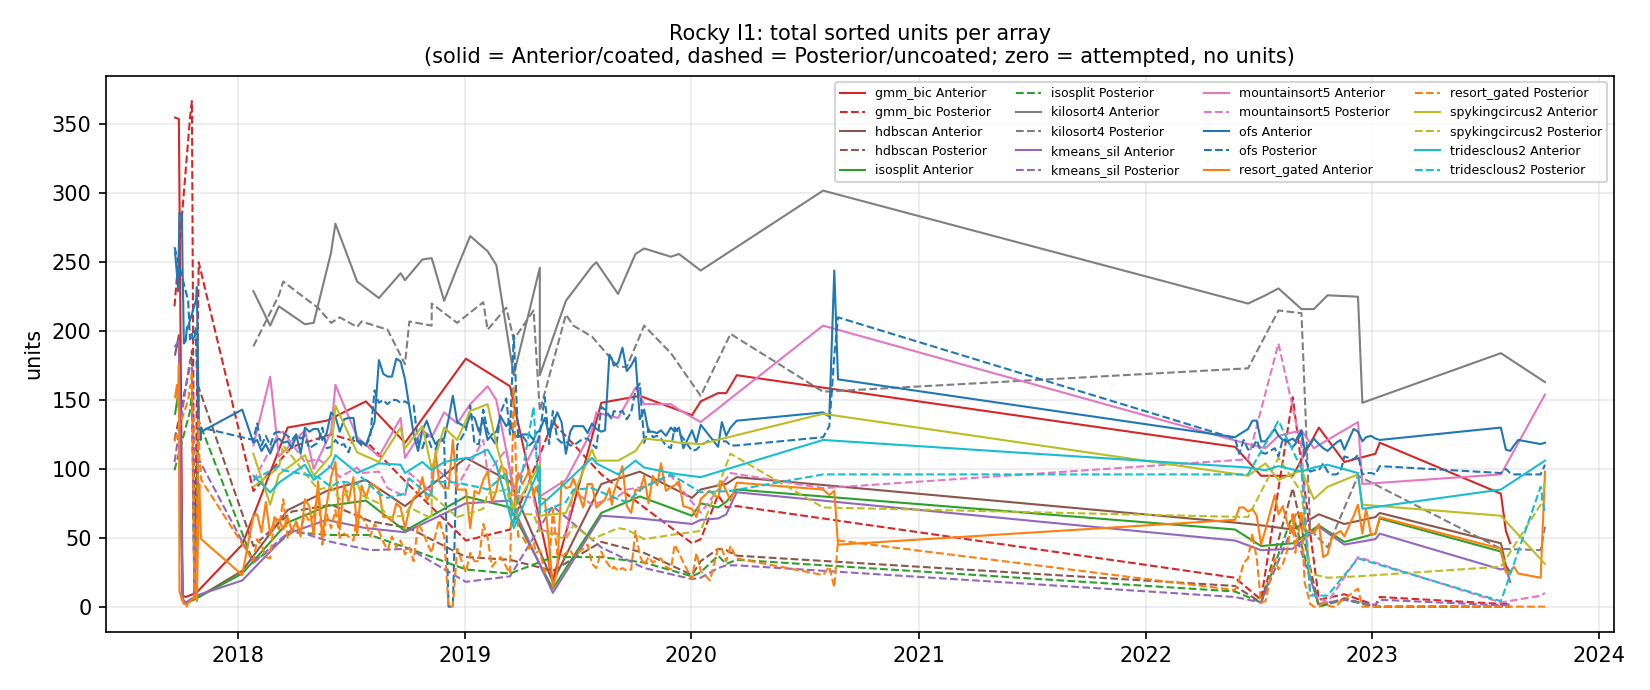
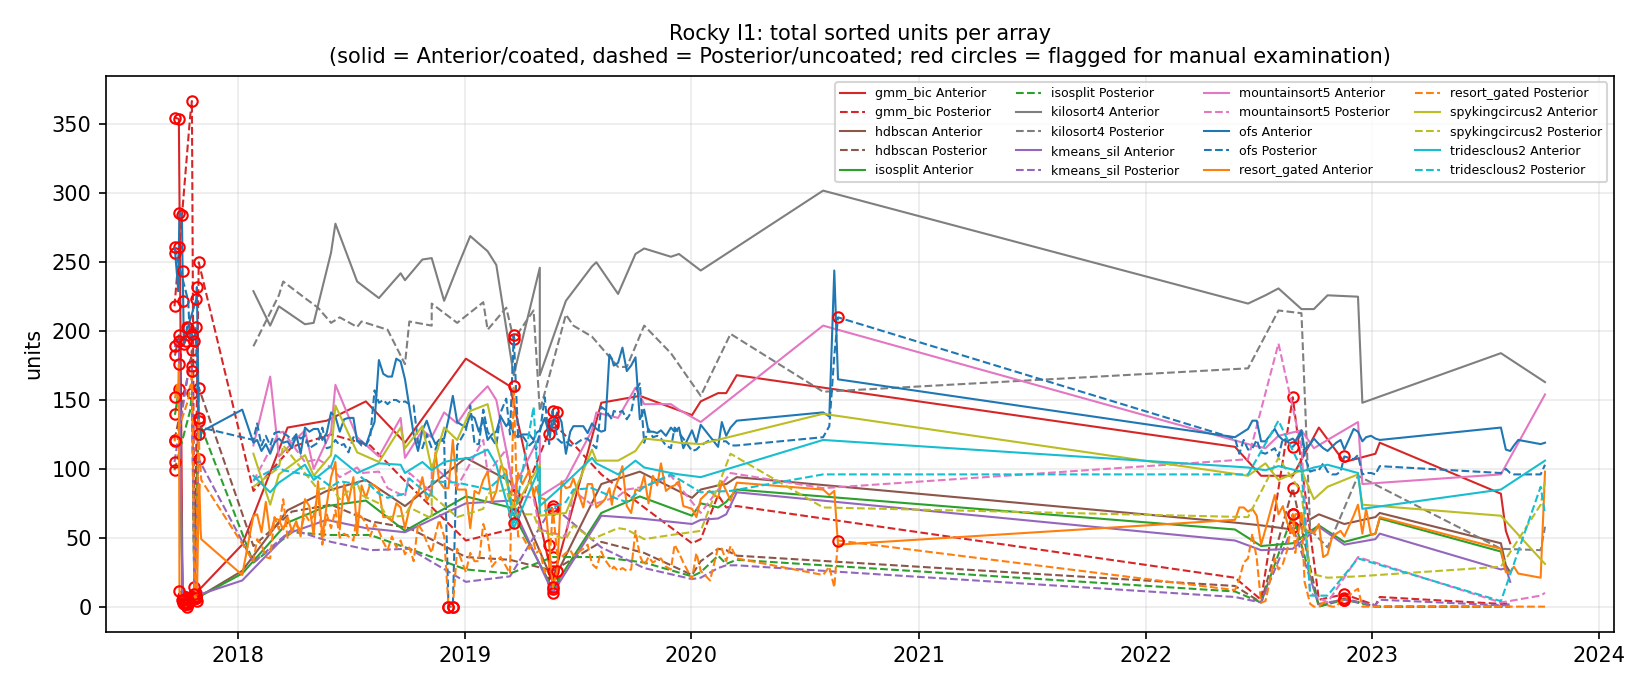
Outlier flagging + monthly binning for the two-array metrics (owner spec)
27 sessions flagged for manual examination (robust-z sweep over every
metric x method x array series at z>5, the S09 noise screen, and the
owner-named 2019-05-23 railed day): the 2017 protocol block, the
Dec-2018 Posterior Analog pair, the mid-2019 Analog block, 2020-08-24,
and two mid/late-2022 Posterior sessions. Flags + reasons + month_post
(30.44 d from surgery 2017-08-30) ride in the parquet; figures come in
three sets (flag-ringed, clean, monthly-binned medians). MATLAB twin
gains excludeOutliers toggle and M.outliers.

diff --git a/notebooks/scratch_two_array_metrics.py b/notebooks/scratch_two_array_metrics.py
@@ -68,6 +68,60 @@ OUT = DER / "rocky" / "two_array_metrics.parquet"
 FIG = REPO / "figures" / "rocky"
 N_CH = 96
 MODERN = ["mountainsort5", "kilosort4", "spykingcircus2", "tridesclous2"]
+SURGERY = pd.Timestamp("2017-08-30")   # I1 implant (configs/subjects/rocky)
+DAYS_PER_MONTH = 30.44                 # month-post-implant bin width
+
+# Sessions flagged for MANUAL EXAMINATION / exclusion (owner request
+# 2026-09-16). Curated from two independent screens - a rolling-median
+# robust-z sweep over every (metric, method, array) series (flag at
+# z > 5 on >= 3 metric-method combinations) and the S09 session-noise
+# screen (measurement_floor.md) - plus the owner's named example. Each
+# entry: stem -> short reason. Toggled per figure set below; the flag
+# also ships in the output table as is_outlier/outlier_reason.
+OUTLIERS = {
+    # -- 2017 protocol block: 4916 s sessions, no headstage, ~2.3x noise
+    #    (the era confound of longitudinal_metrics.md); every stem here
+    #    was flagged by the z-sweep, the noise screen, or both
+    "Rocky_Posterior_09-21-2017": "2017 protocol; z-flagged x3",
+    "Rocky_Anterior_09-22-2017": "2017 protocol; z-flagged x12",
+    "Rocky_Anterior_09-28-2017": "2017 protocol; z-flagged x11",
+    "Rocky_Anterior_09-29-2017": "2017 protocol; noise screen",
+    "Rocky_Anterior_10-03-2017": "2017 protocol; noise screen",
+    "Rocky_Anterior_10-04-2017": "2017 protocol; noise screen; z x4",
+    "Rocky_Anterior_10-05-2017": "2017 protocol; noise screen",
+    "Rocky_Anterior_10-06-2017": "2017 protocol; noise screen",
+    "Rocky_Anterior_10-09-2017": "2017 protocol; noise screen; z x5",
+    "Rocky_Anterior_10-11-2017": "2017 protocol; noise screen",
+    "Rocky_Anterior_10-12-2017": "2017 protocol; noise screen",
+    "Rocky_Posterior_10-19-2017": "2017 protocol; z-flagged x3",
+    "Rocky_Posterior_10-23-2017": "2017 protocol; noise screen; z x13",
+    "Rocky_Posterior_10-25-2017": "2017 protocol; noise screen; z x3",
+    "Rocky_Anterior_10-26-2017": "2017 protocol; noise screen; z x5",
+    "Rocky_Anterior_10-27-2017": "2017 protocol; noise screen",
+    "Rocky_Posterior_10-30-2017_Baseline": "2017 protocol; z-flagged x5",
+    # -- Dec-2018 Posterior Analog pair: degenerate amplitude days (the
+    #    2018-12-06 era also holds the 1-channel 3.9 mV exact-P2P peak)
+    "Rocky_Posterior_12-06-2018_Baseline_AnalogHeadstage":
+        "amplitude blowup; z x6",
+    "Rocky_Posterior_12-13-2018_Baseline_AnalogHeadstage":
+        "amplitude blowup; z x6",
+    # -- mid-2019 Analog block: railed/elevated sessions (owner example)
+    "Rocky_Posterior_03-21-2019_Baseline_AnalogHeadstage":
+        "railed artifacts; noise screen; z max 76",
+    "Rocky_Anterior_05-17-2019_Baseline_AnalogHeadstage": "noise screen",
+    "Rocky_Anterior_05-23-2019_Baseline_AnalogHeadstage":
+        "railed day (owner example); noise screen; z x8",
+    "Rocky_Posterior_05-23-2019_Baseline_AnalogHeadstage":
+        "railed day (owner example); noise screen; z max 362",
+    "Rocky_Anterior_05-30-2019_Baseline_AnalogHeadstage":
+        "railed; noise screen; z max 61",
+    # -- isolated later anomalies
+    "Rocky_Posterior_08-24-2020_Baseline_DigitalHeadstage": "noise screen",
+    "Rocky_Posterior_2022-08-26_Baseline_DigitalHeadstage":
+        "mid-2022 dropout; z x5",
+    "Rocky_Posterior_2022-11-17_Baseline_DigitalHeadstage":
+        "amplitude spike; z x3",
+}
 
 
 def session_metrics(units: pd.DataFrame, universe: pd.DataFrame,
@@ -140,41 +194,77 @@ def main() -> int:
                          value=float(r.n_units)))
 
     t = pd.DataFrame(rows).sort_values(["metric", "method", "array", "date"])
+    # exclusion flag + month post implant travel with every row
+    t["is_outlier"] = t.stem.isin(OUTLIERS)
+    t["outlier_reason"] = t.stem.map(OUTLIERS).fillna("")
+    t["month_post"] = ((t.date - SURGERY).dt.days / DAYS_PER_MONTH
+                       ).astype(int)
     t.to_parquet(OUT, index=False)
     print(t.groupby(["metric", "method"], observed=True)
            .agg(n=("stem", "size"), med=("value", "median"))
            .round(1).to_string())
+    print(f"\noutlier sessions excluded from the clean/monthly sets: "
+          f"{t[t.is_outlier].stem.nunique()}")
 
-    # === figures: one metric each, color = method, style = array ========
+    # === figures ==========================================================
     color = {m: c for m, c in zip(
         ["ofs", "resort_gated", "isosplit", "gmm_bic", "kmeans_sil",
          "hdbscan"] + MODERN,
         plt.cm.tab10.colors + plt.cm.tab10.colors[:2], strict=False)}
     style = {"Anterior": "-", "Posterior": "--"}
     titles = {"n_units": ("total sorted units per array", "units",
-                          "17_n_units_by_method.png"),
+                          "17_n_units_by_method"),
               "mean_max_amp": ("mean max unit amplitude over active "
                                "channels (P2P of unit mean waveform)",
-                               "μV", "18_mean_max_amp_by_method.png"),
+                               "μV", "18_mean_max_amp_by_method"),
               "yield_pct": ("channel yield (% of 96 channels with a unit)",
-                            "%", "19_channel_yield_by_method.png")}
-    for metric, (ttl, ylab, fname) in titles.items():
-        d = t[t.metric == metric]
-        fig, ax = plt.subplots(figsize=(11, 4.6))
-        for (meth, arr), g in d.groupby(["method", "array"], observed=True):
-            g = g.sort_values("date")
-            ax.plot(g.date, g.value, style[arr], color=color[meth], lw=1.0,
-                    label=f"{meth} {arr}")
-        ax.grid(alpha=0.25)
-        ax.set_ylabel(ylab)
-        ax.set_title(f"Rocky I1: {ttl}\n(solid = Anterior/coated, "
-                     "dashed = Posterior/uncoated; zero = attempted, "
-                     "no units)", fontsize=10)
-        ax.legend(fontsize=6, ncol=4, loc="upper right")
-        fig.tight_layout()
-        fig.savefig(FIG / fname, dpi=150)
-        plt.close(fig)
-        print(f"wrote {FIG / fname}")
+                            "%", "19_channel_yield_by_method")}
+
+    def plot_set(d: pd.DataFrame, suffix: str, note: str,
+                 mark_outliers: bool, monthly: bool) -> None:
+        """One figure per metric for one variant of the data."""
+        xcol = "month_post" if monthly else "date"
+        for metric, (ttl, ylab, base) in titles.items():
+            dm = d[d.metric == metric]
+            fig, ax = plt.subplots(figsize=(11, 4.6))
+            for (meth, arr), g in dm.groupby(["method", "array"],
+                                             observed=True):
+                if monthly:
+                    # bin = median of the session values inside each
+                    # month-post-implant bin (zeros included)
+                    g = (g.groupby("month_post").value.median()
+                         .reset_index().sort_values("month_post"))
+                    ax.plot(g.month_post, g.value, style[arr] + "o",
+                            color=color[meth], lw=1.0, ms=2.5,
+                            label=f"{meth} {arr}")
+                else:
+                    g = g.sort_values("date")
+                    ax.plot(g[xcol], g.value, style[arr],
+                            color=color[meth], lw=1.0,
+                            label=f"{meth} {arr}")
+                    if mark_outliers:
+                        o = g[g.is_outlier]
+                        ax.plot(o[xcol], o.value, "o", ms=5, mfc="none",
+                                mec="red", mew=1.0, label="_nolegend_")
+            ax.grid(alpha=0.25)
+            ax.set_ylabel(ylab)
+            ax.set_xlabel("months post implant" if monthly else "")
+            ax.set_title(f"Rocky I1: {ttl}\n(solid = Anterior/coated, "
+                         f"dashed = Posterior/uncoated; {note})",
+                         fontsize=10)
+            ax.legend(fontsize=6, ncol=4, loc="upper right")
+            fig.tight_layout()
+            fig.savefig(FIG / f"{base}{suffix}.png", dpi=150)
+            plt.close(fig)
+            print(f"wrote {FIG / (base + suffix + '.png')}")
+
+    clean = t[~t.is_outlier]
+    plot_set(t, "", "red circles = flagged for manual examination",
+             mark_outliers=True, monthly=False)
+    plot_set(clean, "_clean", "outlier sessions excluded",
+             mark_outliers=False, monthly=False)
+    plot_set(clean, "_monthly", "outliers excluded; median per "
+             "month-post-implant bin", mark_outliers=False, monthly=True)
     print(f"wrote {OUT}")
     return 0
 

diff --git a/matlab/rocky_two_array_metrics.m b/matlab/rocky_two_array_metrics.m
@@ -1,11 +1,18 @@
-function M = rocky_two_array_metrics(repoRoot)
+function M = rocky_two_array_metrics(repoRoot, opts)
 %ROCKY_TWO_ARRAY_METRICS Rocky I1 two-array comparison, one metric per figure.
 %
 %   M = ROCKY_TWO_ARRAY_METRICS()  loads the table written by
-%   notebooks/scratch_two_array_metrics.py, rebuilds the three figures
-%   (17 total units, 18 mean max unit amplitude, 19 channel yield) under
+%   notebooks/scratch_two_array_metrics.py, rebuilds the figures
+%   (17 total units, 18 mean max unit amplitude, 19 channel yield; each
+%   as session-resolved AND month-post-implant-binned) under
 %   figures/matlab_repro/rocky/, and returns every table so each plotted
 %   point can be traced to its session in the Variable Editor.
+%
+%   M = ROCKY_TWO_ARRAY_METRICS([], excludeOutliers=false)  keeps the 27
+%   flagged sessions in the plots (they are then ringed in red instead).
+%   The curated flag list itself lives in the Python generator (single
+%   source of truth) and arrives here as the is_outlier/outlier_reason
+%   columns; M.outliers lists the flagged sessions with reasons.
 %
 %   Scope: Rocky implant 1 only (Anterior = L1-coated, Posterior =
 %   uncoated control); the 2025 I2 pair is excluded upstream.
@@ -34,6 +41,15 @@ function M = rocky_two_array_metrics(repoRoot)
 %     value    the metric value. 0 means "the method ran on this session
 %              and found no units" (owner spec: zero, never NaN); a
 %              session absent for a method was never attempted by it.
+%     is_outlier / outlier_reason
+%              curated manual-examination flag (robust-z sweep + the S09
+%              noise screen + owner-named sessions; see the OUTLIERS dict
+%              in scratch_two_array_metrics.py for the full rationale).
+%     month_post
+%              months post implant: floor(days since surgery 2017-08-30
+%              / 30.44). The binned figures group by this integer and
+%              take the MEDIAN of the session values inside each bin
+%              (zeros included).
 %
 % Metric definitions (mirrored from the Python generator):
 %   n_units       count of the method's (gated where applicable) units
@@ -57,7 +73,11 @@ function M = rocky_two_array_metrics(repoRoot)
 %               g = M.amp(M.amp.method=="ofs" & M.amp.array=="Posterior",:)
 %               g([...k...], ["date","stem","value"])
 
-if nargin < 1
+arguments
+    repoRoot = fileparts(fileparts(mfilename("fullpath")))
+    opts.excludeOutliers (1, 1) logical = true
+end
+if isempty(repoRoot)
     repoRoot = fileparts(fileparts(mfilename("fullpath")));
 end
 suspendCreateFcnGuard = suspend_create_fcn();                %#ok<NASGU>
@@ -66,10 +86,17 @@ t = parquetread(fullfile(repoRoot, "data", "derived", "rocky", ...
     "two_array_metrics.parquet"));
 % parquet date arrives as datetime or string depending on writer version
 if ~isdatetime(t.date), t.date = datetime(string(t.date)); end
+t.is_outlier = logical(t.is_outlier);
 t = sortrows(t, ["metric", "method", "array", "date"]);
 
 M = struct();
-M.long  = t;
+M.long = t;
+% the flagged sessions, one row each, for manual examination
+M.outliers = unique(t(t.is_outlier, ...
+    ["stem", "date", "array", "outlier_reason"]), "rows");
+if opts.excludeOutliers
+    t = t(~t.is_outlier, :);       % the plots below use the CLEAN set
+end
 M.units = t(t.metric == "n_units", :);
 M.amp   = t(t.metric == "mean_max_amp", :);
 M.yield = t(t.metric == "yield_pct", :);
@@ -92,8 +119,13 @@ specs = {M.units, "total sorted units per array",              "units", ...
          M.yield, "channel yield",  "% of 96 channels with a unit", ...
          "19_channel_yield_by_method.png"};
 
+excl = "outliers excluded";
+if ~opts.excludeOutliers, excl = "red rings = flagged sessions"; end
+
 for k = 1:size(specs, 1)
     d = specs{k, 1};
+
+    % --- session-resolved figure ------------------------------------
     f = figure(Visible="off", Position=[60 60 1150 470]); hold on;
     for mi = 1:numel(methods)
         for arr = ["Anterior", "Posterior"]
@@ -103,18 +135,50 @@ for k = 1:size(specs, 1)
             if isempty(g), continue; end
             plot(g.date, g.value, sty(arr), Color=cmap(mi, :), ...
                 LineWidth=0.9, DisplayName=methods(mi) + " " + arr);
+            if ~opts.excludeOutliers
+                o = g(g.is_outlier, :);      % ring the flagged sessions
+                plot(o.date, o.value, "o", MarkerSize=5, ...
+                    MarkerEdgeColor="r", HandleVisibility="off");
+            end
         end
     end
     hold off; grid on; ylabel(specs{k, 3});
     title({"Rocky I1: " + specs{k, 2}; ...
-        "solid = Anterior (coated), dashed = Posterior (uncoated); " + ...
-        "0 = attempted, no units"});
+        "solid = Anterior (coated), dashed = Posterior (uncoated); " + excl});
     legend(Location="northeast", FontSize=6, NumColumns=4);
     exportgraphics(f, fullfile(outDir, specs{k, 4}), Resolution=150);
     close(f);
     fprintf("  wrote %s\n", specs{k, 4});
+
+    % --- month-post-implant binned figure ---------------------------
+    % per (method, array): groupsummary collapses each month_post bin
+    % to the MEDIAN of its session values (zeros included); the bin's
+    % member sessions remain traceable by filtering the per-metric
+    % table on month_post
+    f = figure(Visible="off", Position=[60 60 1150 470]); hold on;
+    for mi = 1:numel(methods)
+        for arr = ["Anterior", "Posterior"]
+            g = d(d.method == methods(mi) & d.array == arr, :);
+            if isempty(g), continue; end
+            b = groupsummary(g, "month_post", "median", "value");
+            plot(b.month_post, b.median_value, sty(arr), ...
+                Color=cmap(mi, :), LineWidth=0.9, Marker="o", ...
+                MarkerSize=2.5, DisplayName=methods(mi) + " " + arr);
+        end
+    end
+    hold off; grid on; ylabel(specs{k, 3});
+    xlabel("months post implant (30.44-day bins from 2017-08-30)");
+    title({"Rocky I1: " + specs{k, 2} + ", monthly bins"; ...
+        "solid = Anterior (coated), dashed = Posterior (uncoated); " + ...
+        excl + "; median per bin"});
+    legend(Location="northeast", FontSize=6, NumColumns=4);
+    name = replace(specs{k, 4}, ".png", "_monthly.png");
+    exportgraphics(f, fullfile(outDir, name), Resolution=150);
+    close(f);
+    fprintf("  wrote %s\n", name);
 end
-fprintf("tables in M.long / M.units / M.amp / M.yield (stem = session)\n");
+fprintf("tables in M.long / M.units / M.amp / M.yield (stem = session); " + ...
+    "M.outliers = flagged sessions\n");
 end
 
 
